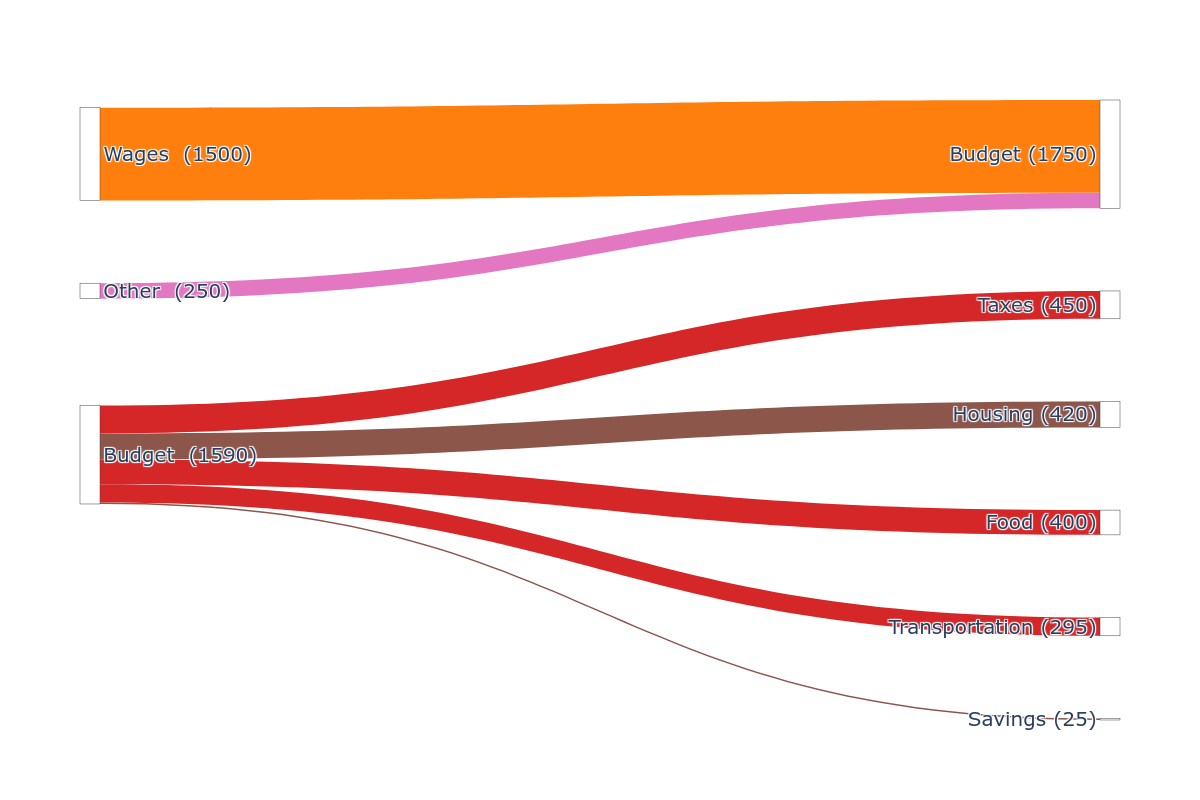
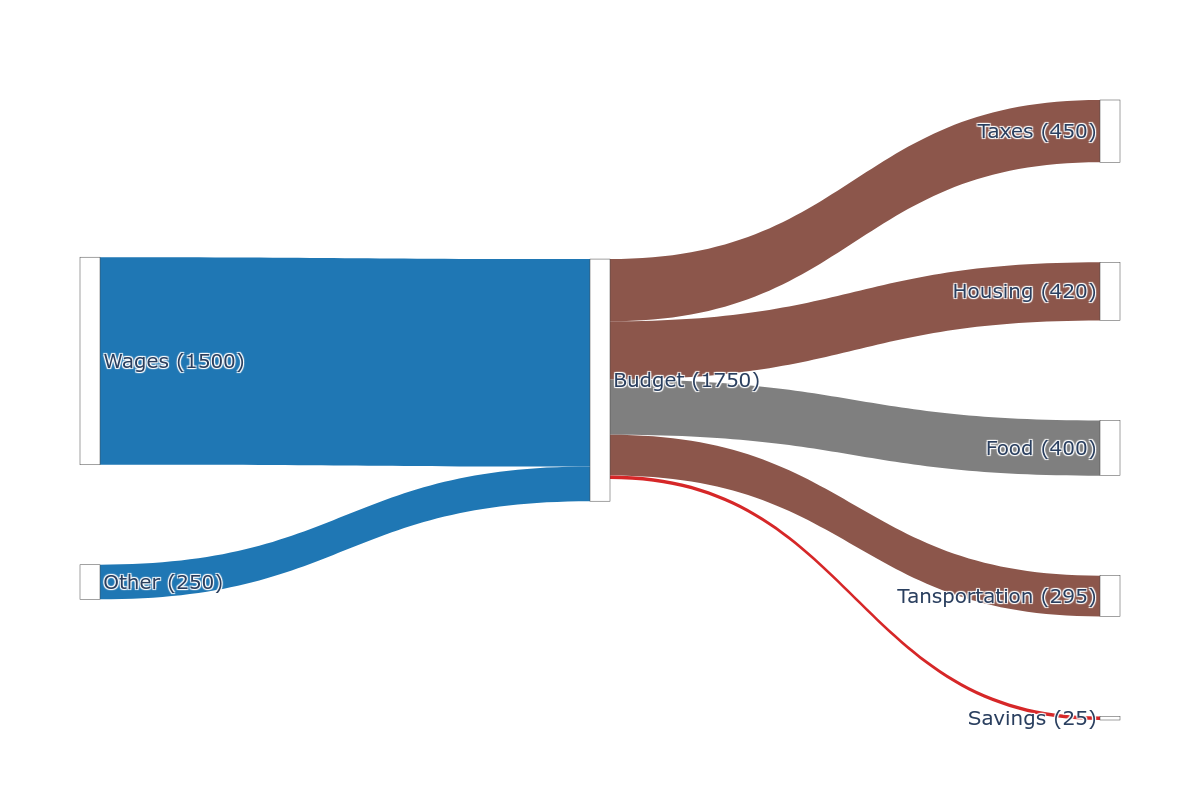
add examples and readme

diff --git a/README.md b/README.md
@@ -1,0 +1,65 @@
+# Pysankey
+
+## Install:
+
+```sh
+pip install git+https://github.com/LeSasse/pysankey.git
+```
+
+Test that it is installed properly:
+
+```sh
+pysankey --help
+```
+
+## Usage
+
+A simple script may look like:
+
+```
+
+Wages [1500] Budget
+Other [250] Budget
+
+Budget [450] Taxes
+Budget [420] Housing
+Budget [400] Food
+Budget [295] Transportation
+Budget [25] Savings
+```
+
+Save it in `budget.txt` and run:
+```sh
+pysankey budget.txt --show
+```
+
+This will open the sankey chart in plotly in your browser for manual editing.
+You can also save the output in a supported file format ['png', 'jpg', 'jpeg', 'webp', 'svg', 'pdf', 'eps', 'json'] as follows:
+
+```sh
+pysankey budget.txt -o budget.png
+```
+
+The result will look something like this:
+![alt text](examples/png/budget.png)
+
+
+Add colors to the nodes using parentheses and to flows by using curly braces
+as follows:
+```
+
+Wages(color: black) [1500] Budget(color: red){color: rgba(255,0,0,0.2)}
+Other [250] Budget
+
+Budget [450] Taxes
+Budget [420] Housing
+Budget [400] Food
+Budget [295] Tansportation
+Budget [25] Savings
+```
+
+If colors are not specified flow colors will be chosen at random and nodes will default to white. You can use css named colors or rgba values as shown above.
+The result will look something like this:
+
+![alt text](examples/png/color_budget.png)
+
